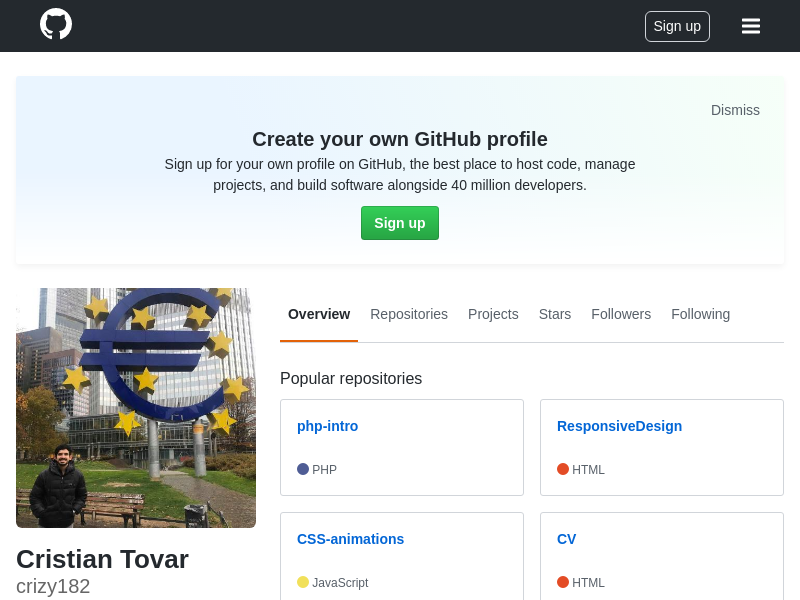
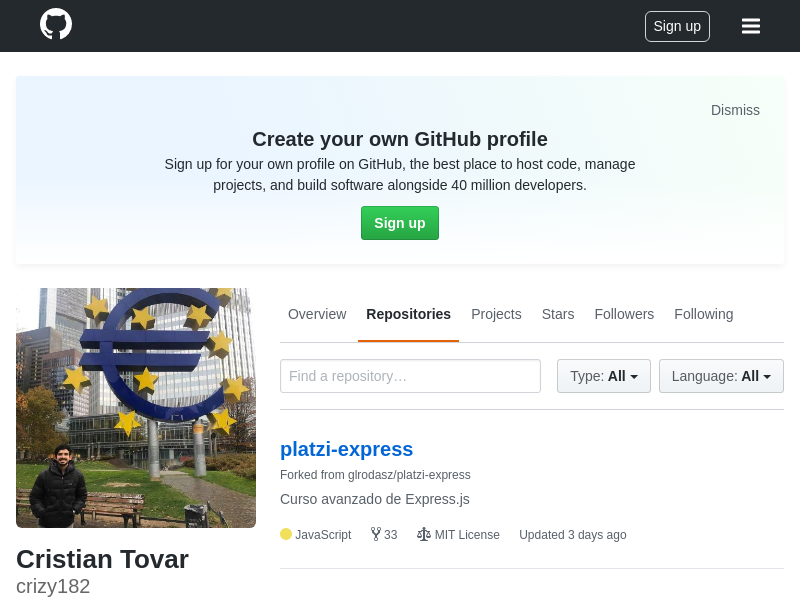
postToSlack

diff --git a/src/utils/getDataFromGithub.js b/src/utils/getDataFromGithub.js
@@ -1,5 +1,9 @@
 const puppeteer = require('puppeteer');
 const getTime = require('./getTime');
+const getPhoto = require('./getPhoto');
+const getCount = require('./getCount');
+const postToSlack = require('./postToSlack');
+
 
 const githubUrl = 'https://github.com/';
 
@@ -9,14 +13,13 @@ const getDataFromGithub = async (githubUser) => {
   const page = await browser.newPage();
   const unixTime = getTime();
   console.log(unixTime);
-  await page.goto(`${githubUrl}${githubUser}`);
+  await page.goto(`${githubUrl}${githubUser}?tab=repositories`);
   await page.screenshot({ path: `${__dirname}/images/${githubUser}.png` });
-  //const githubCounter = await page.evaluate(() => document.getElementsByClassName('Counter')[0].innerText);
-  // await page.screenshot({ path: `${__dirname}/images/${getTime()}-${githubUser}.png` });
+  await page.screenshot({ path: `${__dirname}/images/${getTime()}-${githubUser}.png` });
 
-  const githubUserPhoton = await page.evaluate(
-    () => document.getElementsByClassName('avatar-before-user-status')[0],
-  );
+  const reposCount = await getCount(page);
+  const avatar = await getPhoto(page);
+  await postToSlack(githubUser, avatar, reposCount);
   await browser.close();
   // //console.log(githubCounter);
   return true;

diff --git a/src/utils/postToSlack.js b/src/utils/postToSlack.js
@@ -1,13 +1,14 @@
 const fetch = require('node-fetch');
 
 const postToSlack = async (user, photo, count) => {
+  console.log(count);
   const data = JSON.stringify({
     'blocks': [
       {
         'type': 'section',
         'text': {
           'type': 'mrkdwn',
-          'text': `*Reto Cumplido* \n https://github.com/${user} \n Numero de repositorios: ${count.trimStart()}`,
+          'text': `*Reto Cumplido* \n https://github.com/${user} \n Numero de repositorios: ${count}`,
         },
         'accessory': {
           'type': 'image',
@@ -17,13 +18,15 @@ const postToSlack = async (user, photo, count) => {
       },
     ],
   });
-  await fetch(webhookURL, {
-    method: 'POST',
-    headers: {
-      'Content-Type': 'application/json; charset=UTF-8',
-    },
-    body: data,
-  }).then((response) => {
-    console.log(response.size);
-  });
+  // await fetch(webhookURL, {
+  //   method: 'POST',
+  //   headers: {
+  //     'Content-Type': 'application/json; charset=UTF-8',
+  //   },
+  //   body: data,
+  // }).then((response) => {
+  //   console.log(response.size);
+  // });
 };
+
+module.exports = postToSlack;

diff --git a/src/utils/getPhoto.js b/src/utils/getPhoto.js
@@ -1,0 +1,8 @@
+const githubUserPhoton = async (page) => {
+  const photo = await page.evaluate(
+    () => document.getElementsByClassName('avatar-before-user-status')[0],
+  );
+  return photo;
+};
+
+module.exports = githubUserPhoton;

diff --git a/src/utils/getCount.js b/src/utils/getCount.js
@@ -1,0 +1,6 @@
+const getCount = async (page) => {
+  const result = await page.evaluate(() => document.getElementsByClassName('Counter')[0].innerText);
+  return result;
+};
+
+module.exports = getCount;
